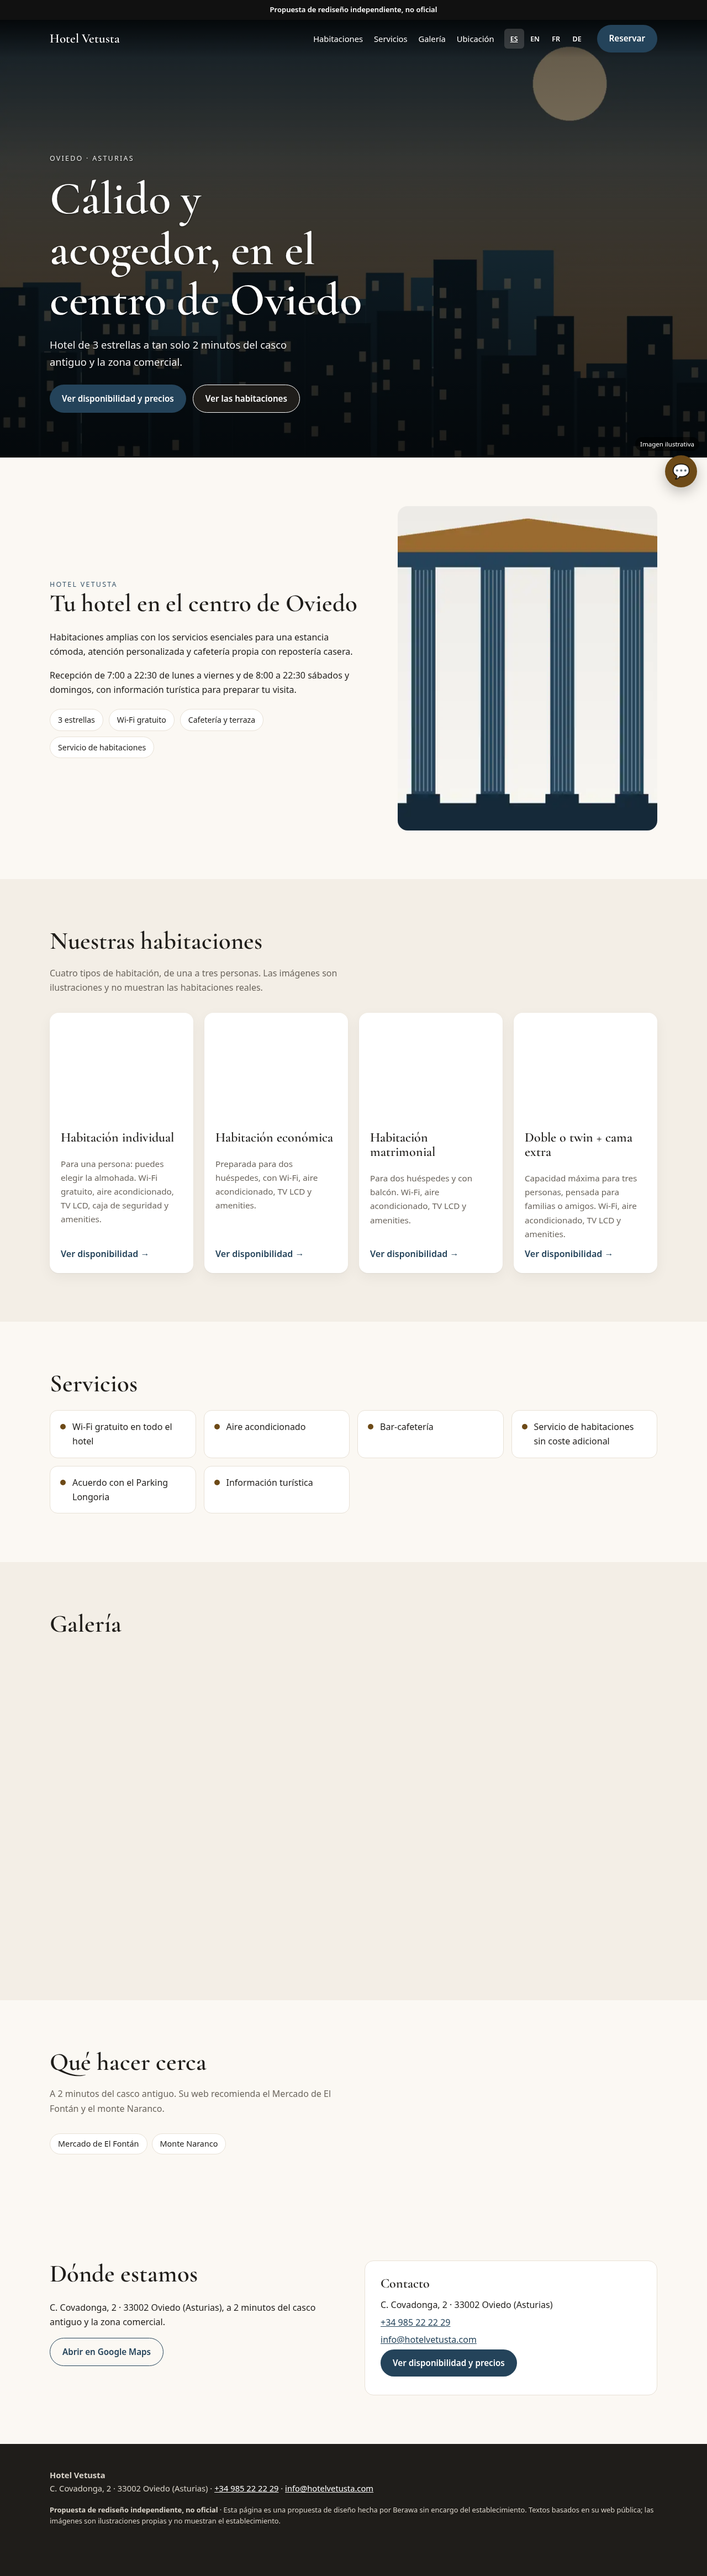
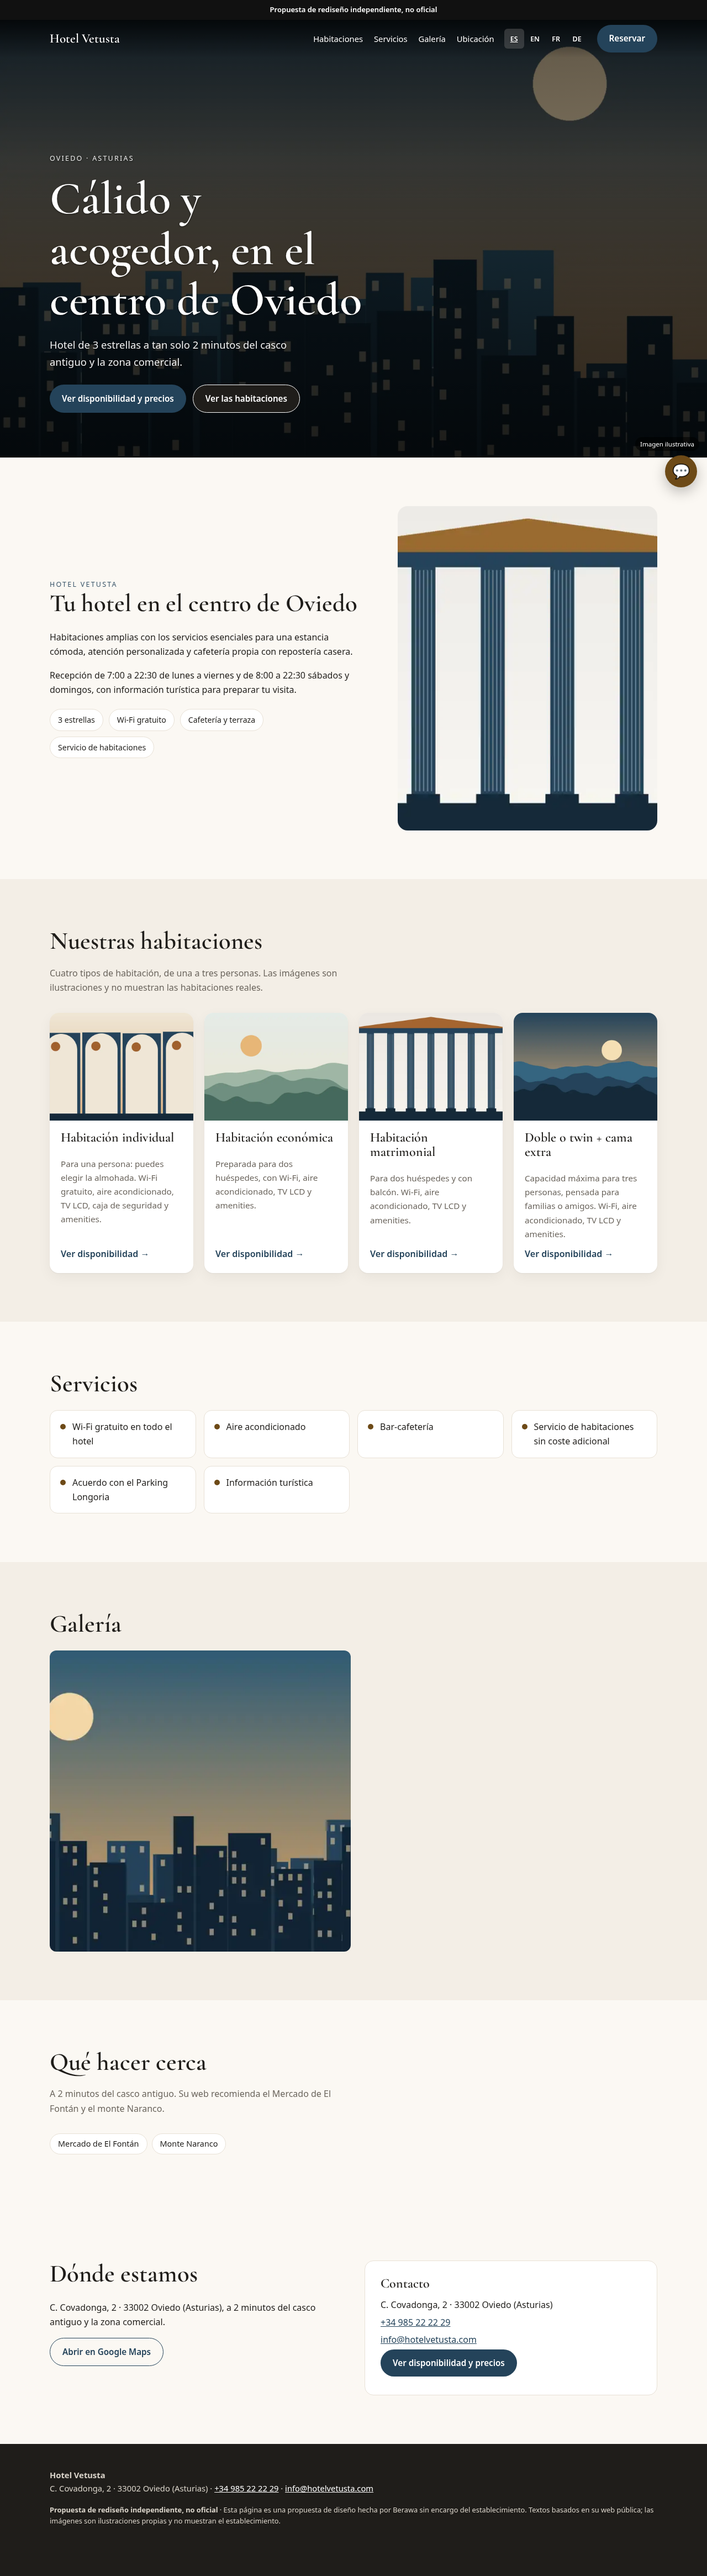
docs: informe QA Grok (A1-A11, C01-C16, Lighthouse) y evidencias

Changed region(s): [[0.0625, 0.6221, 0.5, 0.7776], [0.0625, 0.3732, 0.9375, 0.4354]]

diff --git a/berawa/QA-GROK.md b/berawa/QA-GROK.md
@@ -2,50 +2,50 @@
 
 Autocontrol de fabricación (G04, A1–A11) y checklist C01–C16 (`docs/BERAWA-QA-CHECKLIST.md`) pasados por Grok antes del PR. **No es una auditoría independiente ni una aprobación**: Codex solo audita una muestra y nada se publica ni se envía sin visto bueno de Juan.
 
-- Rama: `demo/hotel-vetusta-oviedo` · HEAD de las pruebas: `b89656ff1a28a3283f79c26edfb98f6cf63d0226` · fecha: 30/10/2026 06:47 (Europe/Madrid)
+- Rama: `demo/hotel-vetusta-oviedo` · HEAD de las pruebas: `a96d8b2122949e48c46a4d4730c57cccddde7b65` · fecha: 30/10/2026 07:04 (Europe/Madrid)
 - Entorno: Chromium de Playwright (instalado por `playwright install chromium` en el clon limpio), axe-core 4.14.0, Lighthouse 13.6.0 (3 pasadas, mediana).
-- Resultado: **QA_GROK_FAIL**
+- Resultado: **QA_GROK_PASS**
 - Negocio medido: Maps 4.1 (LEIDA, coincide tel, web) · web original: LCP > 4 s · titular Alojamiento Hotelero Vetusta (persona jurídica, sin cadena).
 
 ## Controles A1–A11
 | Nº | Control | Resultado | Evidencia |
 |---|---|---|---|
-| A1 | Idiomas ES/EN/FR/DE (selector con 4 botones; ningún otro idioma) | **NO** | qa/chat-i18n.json, qa/file-chat-i18n.json (data-t = traducción; alemán completo; sin restos de otros idiomas; un ?lang= no previsto cae a es) |
-| A2 | Chatbot con knowledge.json (citas, cifras, 4+ preguntas por idioma, desconocida, forzar invención, reserva, claves ambiguas = 0) | **NO** | qa/check_kb.txt, qa/chat-i18n.json, keys_test en qa/run_checks-zip.txt y qa/clon-limpio.txt |
+| A1 | Idiomas ES/EN/FR/DE (selector con 4 botones; ningún otro idioma) | **CUMPLE** | qa/chat-i18n.json, qa/file-chat-i18n.json (data-t = traducción; alemán completo; sin restos de otros idiomas; un ?lang= no previsto cae a es) |
+| A2 | Chatbot con knowledge.json (citas, cifras, 4+ preguntas por idioma, desconocida, forzar invención, reserva, claves ambiguas = 0) | **CUMPLE** | qa/check_kb.txt, qa/chat-i18n.json, keys_test en qa/run_checks-zip.txt y qa/clon-limpio.txt |
 | A3 | Accesibilidad: axe sin violaciones (2 viewports × 4 idiomas × inicio/menú/chat), Lighthouse accesibilidad ≥ 95, teclado, contraste sobre foto ≥ 4,5 | **CUMPLE** | qa/axe-teclado.json, qa/contraste.json, qa/lighthouse-3pasadas.json |
 | A4 | Seguridad: sin innerHTML con datos, noopener noreferrer, sin terceros, CSP por meta probada | **CUMPLE** | qa/seguridad.json |
 | A5 | Datos con fuente y fecha; leídas todas las fichas | **CUMPLE** | berawa/sources.json, berawa/evidence/source-text.json, berawa/evidence/captacion.json |
 | A6 | Imágenes: ninguna del negocio; manifiesto con hash, origen y licencia | **CUMPLE** | berawa/asset_manifest.json (todo origin=generated + fuente OFL), LICENSES.md |
-| A7 | Entrega: ZIP determinista, descomprimido y probado por HTTP y file://, idéntico a la rama | **NO** | qa/run_checks-zip.txt, qa/zip/, resumen.json (sha256 del ZIP, 0 ficheros distintos) |
+| A7 | Entrega: ZIP determinista, descomprimido y probado por HTTP y file://, idéntico a la rama | **CUMPLE** | qa/run_checks-zip.txt, qa/zip/, resumen.json (sha256 del ZIP, 0 ficheros distintos) |
 | A8 | Trazabilidad: un commit por bloque; scripts y evidencias commiteados; cambios V1.0 aparte | **CUMPLE** | git log de la rama; berawa/V1.0-CAMBIOS.md |
 | A9 | Precios del chatbot: REGLA DE PRECIOS: CUMPLE | **CUMPLE** | qa/check_kb.txt, qa/check_kb-zip.txt |
-| A10 | Reproducibilidad: clon limpio + dependencias documentadas + run_checks --file en verde; rg /workspace vacío | **NO** | qa/clon-limpio.txt, qa/rg-workspace.txt |
-| A11 | git diff --check main...HEAD sin salida | **NO** | qa/git-diff-check.txt |
+| A10 | Reproducibilidad: clon limpio + dependencias documentadas + run_checks --file en verde; rg /workspace vacío | **CUMPLE** | qa/clon-limpio.txt, qa/rg-workspace.txt |
+| A11 | git diff --check main...HEAD sin salida | **CUMPLE** | qa/git-diff-check.txt |
 
 ## Checklist C01–C16
 | Código | Control | Resultado | Evidencia |
 |---|---|---|---|
-| C01 | Repositorio y SHA | **CUMPLE** | HEAD del clon limpio = b89656ff1a28a3283f79c26edfb98f6cf63d0226 (el SHA final del PR es el del commit que añade este informe) |
+| C01 | Repositorio y SHA | **CUMPLE** | HEAD del clon limpio = a96d8b2122949e48c46a4d4730c57cccddde7b65 (el SHA final del PR es el del commit que añade este informe) |
 | C02 | Identidad y fuentes | **CUMPLE** | nombre, teléfono, dirección y datos comerciales con cita literal en berawa/knowledge.json; titular persona jurídica sin cadena y nota de Maps en berawa/evidence/captacion.json |
 | C03 | Licencias | **CUMPLE** | asset_manifest.json: ilustraciones propias generadas (origin=generated) y fuente Cormorant OFL; ninguna imagen, logo ni vídeo del negocio |
 | C04 | Diseño personalizado y no suplantador | **CUMPLE** | paleta e ilustraciones propias, aviso «Propuesta de rediseño independiente, no oficial» arriba y en el pie, sin logo ni marca del negocio; revisión visual de qa/capturas/ |
-| C05 | Móvil 375 px en navegador real | **NO** | qa/capturas/movil-*.png; desbordamiento horizontal 0 px; axe y teclado en 375 px |
-| C06 | Escritorio 1280 px en navegador real | **NO** | qa/capturas/escritorio-*.png; desbordamiento horizontal 0 px; axe y teclado en 1280 px |
-| C07 | Español completo, botones y chatbot | **NO** | qa/chat-i18n.json (es) |
-| C08 | Alemán completo, botones y chatbot | **NO** | qa/chat-i18n.json (de) |
-| C09 | Inglés completo, botones y chatbot | **NO** | qa/chat-i18n.json (en) |
-| C10 | Francés completo, botones y chatbot | **NO** | qa/chat-i18n.json (fr) |
-| C11 | Chatbot: conocida, sinónimo, desconocida y prohibición de inventar | **NO** | tests por idioma: preguntas conocidas con otras palabras, 2 desconocidas con respuesta «No dispongo de esa información», petición de confirmar disponibilidad (no la confirma) |
+| C05 | Móvil 375 px en navegador real | **CUMPLE** | qa/capturas/movil-*.png; desbordamiento horizontal 0 px; axe y teclado en 375 px |
+| C06 | Escritorio 1280 px en navegador real | **CUMPLE** | qa/capturas/escritorio-*.png; desbordamiento horizontal 0 px; axe y teclado en 1280 px |
+| C07 | Español completo, botones y chatbot | **CUMPLE** | qa/chat-i18n.json (es) |
+| C08 | Alemán completo, botones y chatbot | **CUMPLE** | qa/chat-i18n.json (de) |
+| C09 | Inglés completo, botones y chatbot | **CUMPLE** | qa/chat-i18n.json (en) |
+| C10 | Francés completo, botones y chatbot | **CUMPLE** | qa/chat-i18n.json (fr) |
+| C11 | Chatbot: conocida, sinónimo, desconocida y prohibición de inventar | **CUMPLE** | tests por idioma: preguntas conocidas con otras palabras, 2 desconocidas con respuesta «No dispongo de esa información», petición de confirmar disponibilidad (no la confirma) |
 | C12 | CTA con destinos reales, sin falsa reserva | **CUMPLE** | solo mailto:, tel: y enlaces a páginas de reserva del propio negocio (project.json → book); sin motor propio; sec_scan |
-| C13 | Transparencia: aviso demo no oficial y noindex | **NO** | aviso visible en los 4 idiomas, meta robots noindex,nofollow y robots.txt Disallow: / |
+| C13 | Transparencia: aviso demo no oficial y noindex | **CUMPLE** | aviso visible en los 4 idiomas, meta robots noindex,nofollow y robots.txt Disallow: / |
 | C14 | Seguridad: sin secretos, XSS ni recolección engañosa | **CUMPLE** | qa/seguridad.json; el sitio no recoge datos |
-| C15 | Entrega: ZIP, descomprimir, servir y navegar fuera de GitHub Pages | **NO** | qa/run_checks-zip.txt (HTTP y file:// sobre el ZIP descomprimido) |
+| C15 | Entrega: ZIP, descomprimir, servir y navegar fuera de GitHub Pages | **CUMPLE** | qa/run_checks-zip.txt (HTTP y file:// sobre el ZIP descomprimido) |
 | C16 | Rendimiento medido (Lighthouse 3 pasadas, mediana) | **CUMPLE** | qa/lighthouse-3pasadas.json · SEO < 90 por el `noindex,nofollow` y el `robots.txt` con `Disallow: /` (is-crawlable y robots-txt), exigidos por la V1.0; no se maquilla. |
 
 ## Lighthouse (mediana de 3 pasadas)
 | | Rendimiento | Accesibilidad | Buenas prácticas | SEO |
 |---|---|---|---|---|
-| Móvil | 99 | 100 | 100 | 58 |
+| Móvil | 100 | 100 | 100 | 58 |
 | Escritorio | 100 | 100 | 100 | 58 |
 
 SEO < 90 por el `noindex,nofollow` y el `robots.txt` con `Disallow: /` (is-crawlable y robots-txt), exigidos por la V1.0; no se maquilla.
@@ -53,4 +53,4 @@ SEO < 90 por el `noindex,nofollow` y el `robots.txt` con `Disallow: /` (is-crawl
 ## Límites
 - No probado en Safari ni Firefox ni con lector de pantalla.
 - Las imágenes son ilustraciones propias: no muestran el establecimiento y así se rotulan.
-- Tiempo del autocontrol automático (ZIP, clon limpio, Lighthouse, capturas): 11.6 min.
+- Tiempo del autocontrol automático (ZIP, clon limpio, Lighthouse, capturas): 9.2 min.
